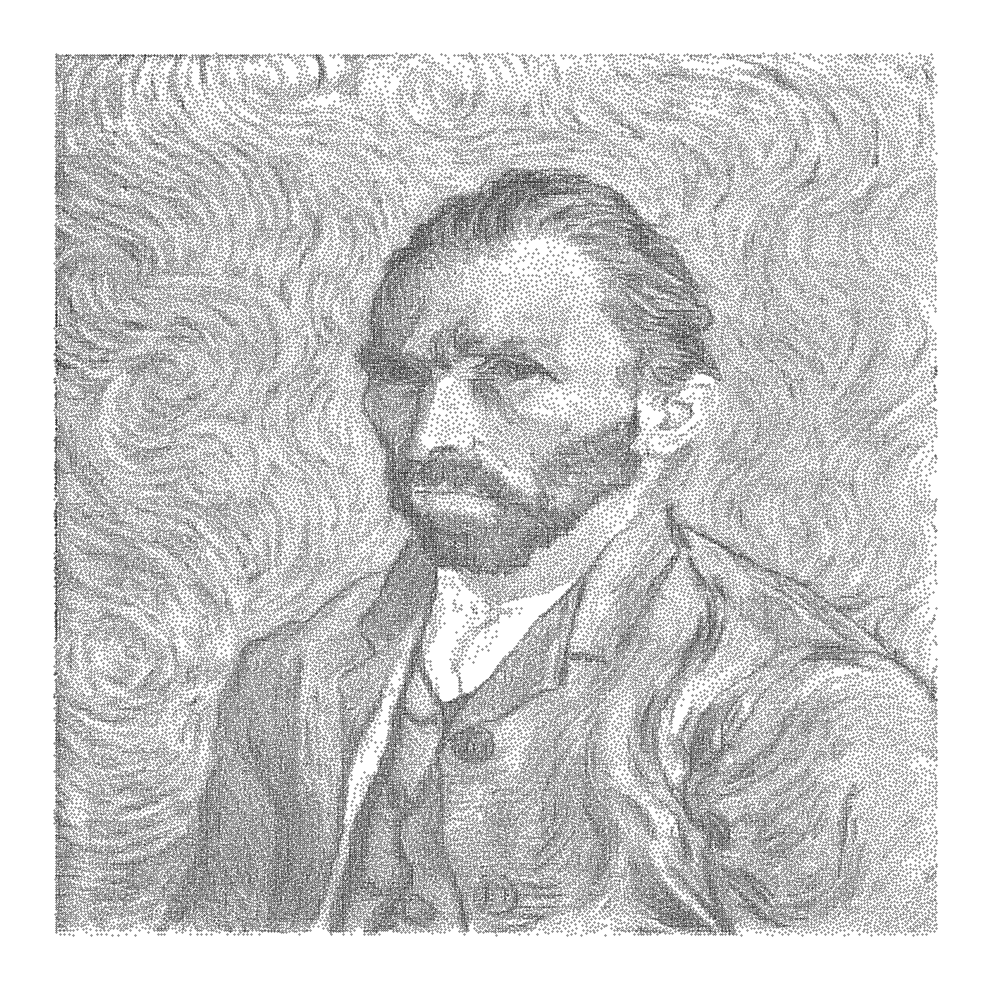
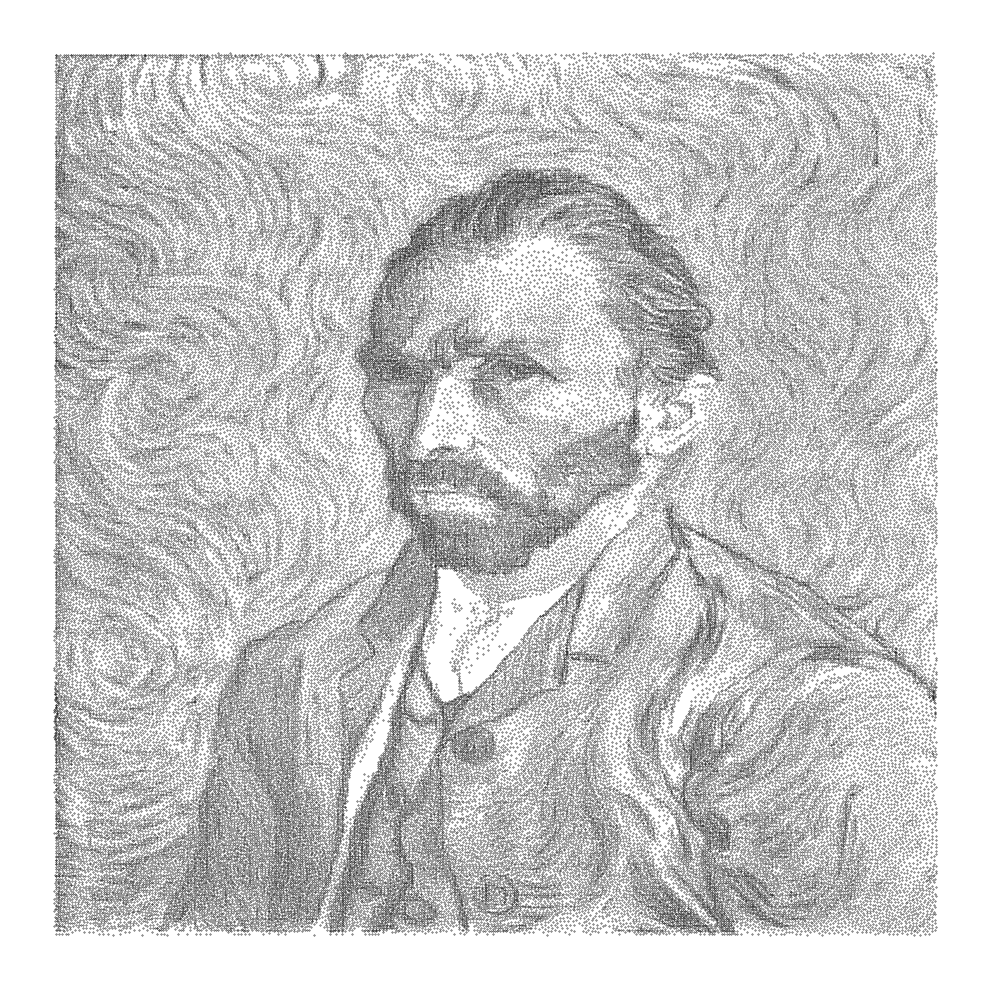
🦓

diff --git a/src/blue_sampler/run/run_recursive.py b/src/blue_sampler/run/run_recursive.py
@@ -62,18 +62,17 @@ def _recursive_pipeline(
     """Recursive stealthy-sampling pipeline. Spawns child pipelines when N is large."""
     try:
         has_target = target is not None
-        is_root    = _is_root or (N <= 2_000) or (x is not None)
-        brute_thresh = 2000
+        is_root    = _is_root or (N <= 3_000) or (x is not None)
+        brute_thresh = 1000 if D == 2 else 3_000
+        brute_ITER = 600 if D == 2 else 60
         if x is None:
             x = np.random.rand(N, D)
         if has_target and D == 2:
             #spatial_radius = 8
             S = 0.5
-            is_root = is_root or N <= 5_000
-            brute_thresh = 750
-            N_ITER = 12
-            if is_root:
-                N_ITER = 24
+        if is_root:
+            N_ITER = 50
+
         ctx = logger.enter_level(N, D, N_ITER)
         Dsimp      = min(D, 3)
         IJK, _, Axes = grid_shape(N, D)
@@ -120,13 +119,18 @@ def _recursive_pipeline(
             lr_macro = lr_micro
   
         else:
-            def macro_grad(x_val):
-                x_flat = x_val.reshape(-1, D)
-                def body(acc, args):
-                    k, k_ = args
-                    return acc + spectral_kernel(x_flat, k, k_), None
-                out, _ = jax.lax.scan(body, jnp.zeros_like(x_flat), (K_w, K_))
-                return out.reshape(*IJK, D)
+            if D <= 3:
+                def macro_grad(x_val):
+                    x_flat = x_val.reshape(-1, D)
+                    def body(acc, args):
+                        k, k_ = args
+                        return acc + spectral_kernel(x_flat, k, k_), None
+                    out, _ = jax.lax.scan(body, jnp.zeros_like(x_flat), (K_w, K_))
+                    return out.reshape(*IJK, D)
+            else:
+                #macro kernel is useless in 4D+
+                def macro_grad(x_val):
+                    return 0
     
         sn = SquareNet(gridshape=IJK, max_iter=50, verbose=0)
 
@@ -184,7 +188,7 @@ def _recursive_pipeline(
             if bruteforce:
                 ctx.start()
                 x_pts = _bruteforce_pipeline(
-                    N, D, N_ITER, ctx = ctx, 
+                    N, D, brute_ITER, ctx = ctx, 
                     target=target, 
                 )(x)
                 x_pts   = prepare_points(np.asarray(x_pts), N, IJK, D)
@@ -215,7 +219,7 @@ def _recursive_pipeline(
             ctx.start()
             if bruteforce:
                 x_pts = _bruteforce_pipeline(
-                    N, D, N_ITER, ctx = ctx, 
+                    N, D, brute_ITER, ctx = ctx, 
                     target=target, 
                 )(xparent)
             else:

diff --git a/src/blue_sampler/api.py b/src/blue_sampler/api.py
@@ -173,7 +173,7 @@ def sample_points(
 
     Notes
     -----
-    ``bruteforce`` is automatically used for N ≤ 2 000, regardless of the
+    ``bruteforce`` is automatically used for N ≤ 1 000, regardless of the
     ``method`` argument, as it is optimal in that regime.
     """
     methods = ["rgbn", "bruteforce", "nufft", "cheap"]
@@ -186,7 +186,7 @@ def sample_points(
             raise NotImplementedError(f"cheap sampling method doesn't support giving target distribution (only uniform sampling)")
         return jitter(N, D, verbose)
 
-    bruteforce = method == "bruteforce" or N <= 2_000
+    bruteforce = method == "bruteforce" or (N <= 1_000 if D  == 2 else N <= 3_000)
     nufft = method == "nufft"
 
     has_warmstart = warmstart is not None

diff --git a/src/blue_sampler/__init__.py b/src/blue_sampler/__init__.py
@@ -52,4 +52,4 @@ __all__ = [
     "warmstart_points",
 ]
 
-__version__ = "1.3.11"
+__version__ = "1.3.13"

diff --git a/README.md b/README.md
@@ -53,13 +53,25 @@ x = blue.im2quads("plots/vangogh.jpg")   #quadrilaterals
 
 ---
 
-## 🖼 Example
+## 🖼 Examples 
+
+Uniform sampling, Gaussian Blue Noise (3k points)
+
+<p align="center">
+  <img src="https://raw.githubusercontent.com/For-a-few-DPPs-more/rgbn/main/plots/huniformpoints.png" width="95%" alt="Example">
+</p>
+
+Image stippling with points (100k points)
 
 <p align="center">
   <img src="https://raw.githubusercontent.com/For-a-few-DPPs-more/rgbn/main/plots/zebrapoints.png" width="45%" alt="Example 1">
-  <img src="https://raw.githubusercontent.com/For-a-few-DPPs-more/rgbn/main/plots/zebraquads.png" width="45%" alt="Example 2">
-  <br>
-  <img src="https://raw.githubusercontent.com/For-a-few-DPPs-more/rgbn/main/plots/vangoghpoints.png" width="45%" alt="Example 3">
+  <img src="https://raw.githubusercontent.com/For-a-few-DPPs-more/rgbn/main/plots/vangoghpoints.png" width="45%" alt="Example 2">
+</p>
+
+Image stippling with polygons (30k polygons)
+
+<p align="center">
+  <img src="https://raw.githubusercontent.com/For-a-few-DPPs-more/rgbn/main/plots/zebraquads.png" width="45%" alt="Example 3">
   <img src="https://raw.githubusercontent.com/For-a-few-DPPs-more/rgbn/main/plots/vangoghquads.png" width="45%" alt="Example 4">
 </p>
 
